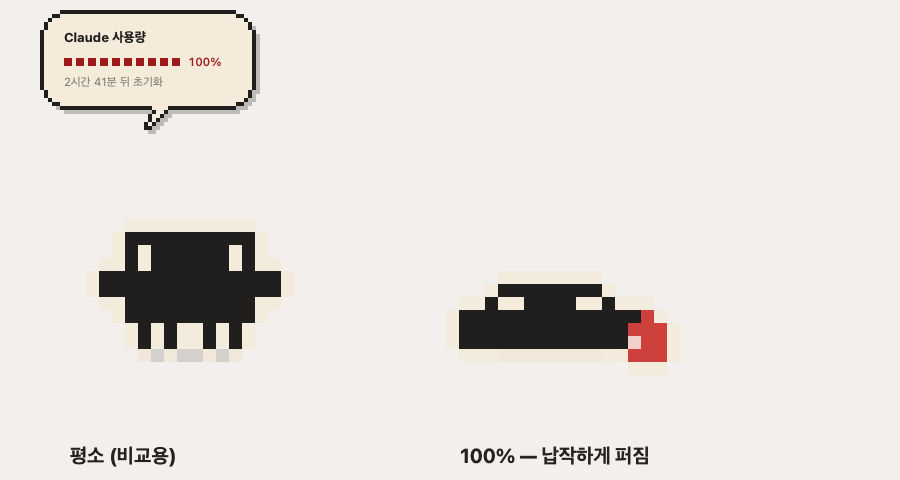
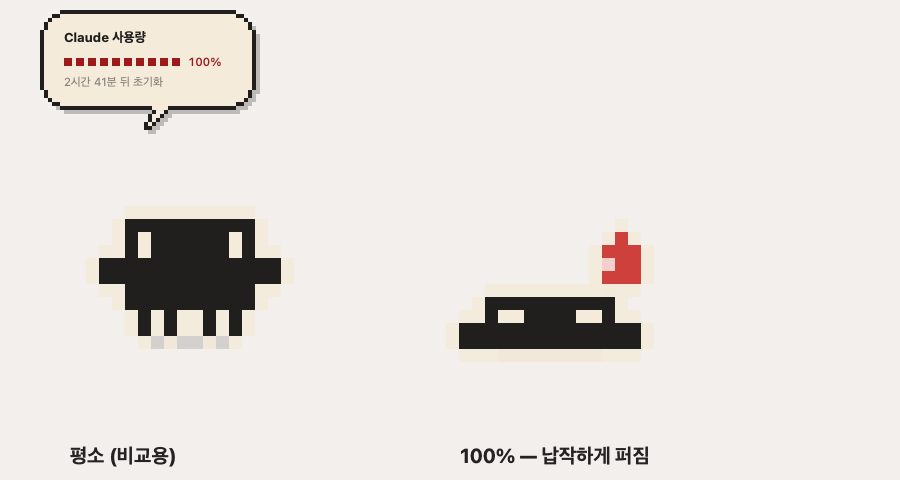
지친 상태의 땀방울 위치와 숨쉬기 방식 조정
땀방울이 몸과 같은 줄에 있어 파묻힌 것처럼 보였다. 납작해진 몸 위쪽
빈 자리로 떨어지게 옮겼다.

숨쉬기는 높이를 그대로 두고 등만 양옆으로 한 칸씩 부풀게 바꿨다.
몸통을 위로 늘리면 머리째 들렸다 놨다 해서 어색했다.

Changed region(s): [[0.4978, 0.4688, 0.7467, 0.7812], [0.0933, 0.5938, 0.28, 0.75], [0.0933, 0.4375, 0.3111, 0.625]]

diff --git a/buddy/sprite.py b/buddy/sprite.py
@@ -49,14 +49,14 @@ _LYING_OUT = [          # 날숨
     "##############",
     "##############",
 ]
-_LYING_IN = [           # 들숨 — 바닥은 그대로, 몸통이 한 줄 부풀며 머리를 밀어 올린다
+_LYING_IN = [           # 들숨 — 높이는 그대로 두고 등만 양옆으로 한 칸씩 부푼다
     "              ",
     "              ",
     "              ",
     "              ",
-    "   ########   ",
+    "              ",
+    "  ##########  ",
     "  #oo####oo#  ",
-    "##############",
     "##############",
     "##############",
 ]
@@ -257,9 +257,13 @@ def _draw_sweat(rect, body: set[tuple[int, int]], st: MascotState) -> None:
     # 머리 오른쪽 위 모서리에 붙여야 몸에서 난 땀처럼 보인다.
     # 도안 위쪽 여백에 두므로 팔(3~4행)과 겹칠 일이 없다.
     fall = int(st.zzz * 2)
-    left = GRID_W - 1 if st.facing > 0 else -2
-    # 서 있을 땐 머리 위 여백에, 누워 있을 땐 몸 옆에 붙인다
-    top = (5 if st.mood == "exhausted" else -2) + fall
+    if st.mood == "exhausted":
+        # 납작해진 몸 위쪽 빈 자리로 떨어진다.
+        # 몸과 같은 줄에 두면 겹쳐서 파묻힌 것처럼 보인다.
+        left, top = GRID_W - 3, fall
+    else:
+        left = GRID_W - 1 if st.facing > 0 else -2
+        top = -2 + fall
 
     cells = {
         (left + c, top + r)
